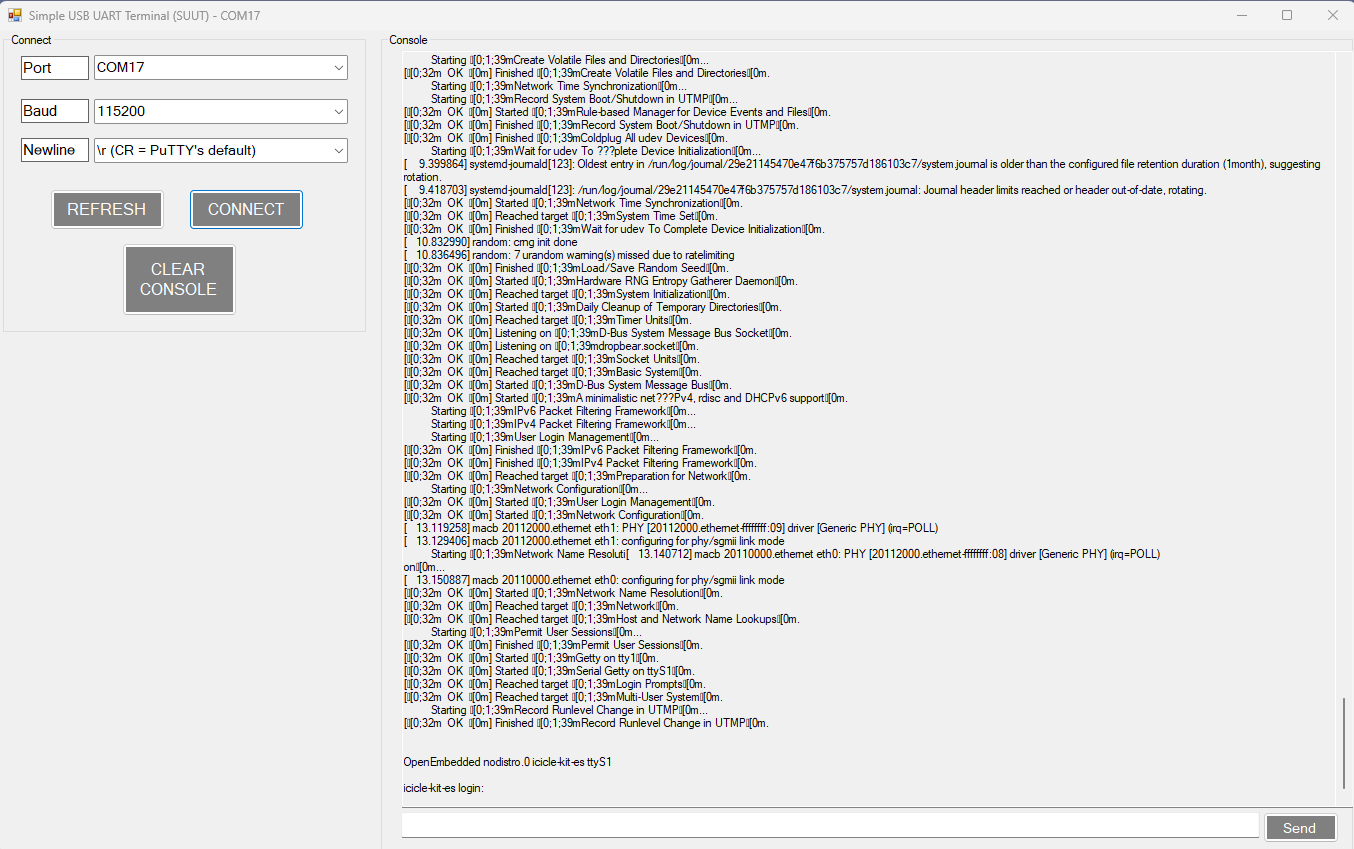
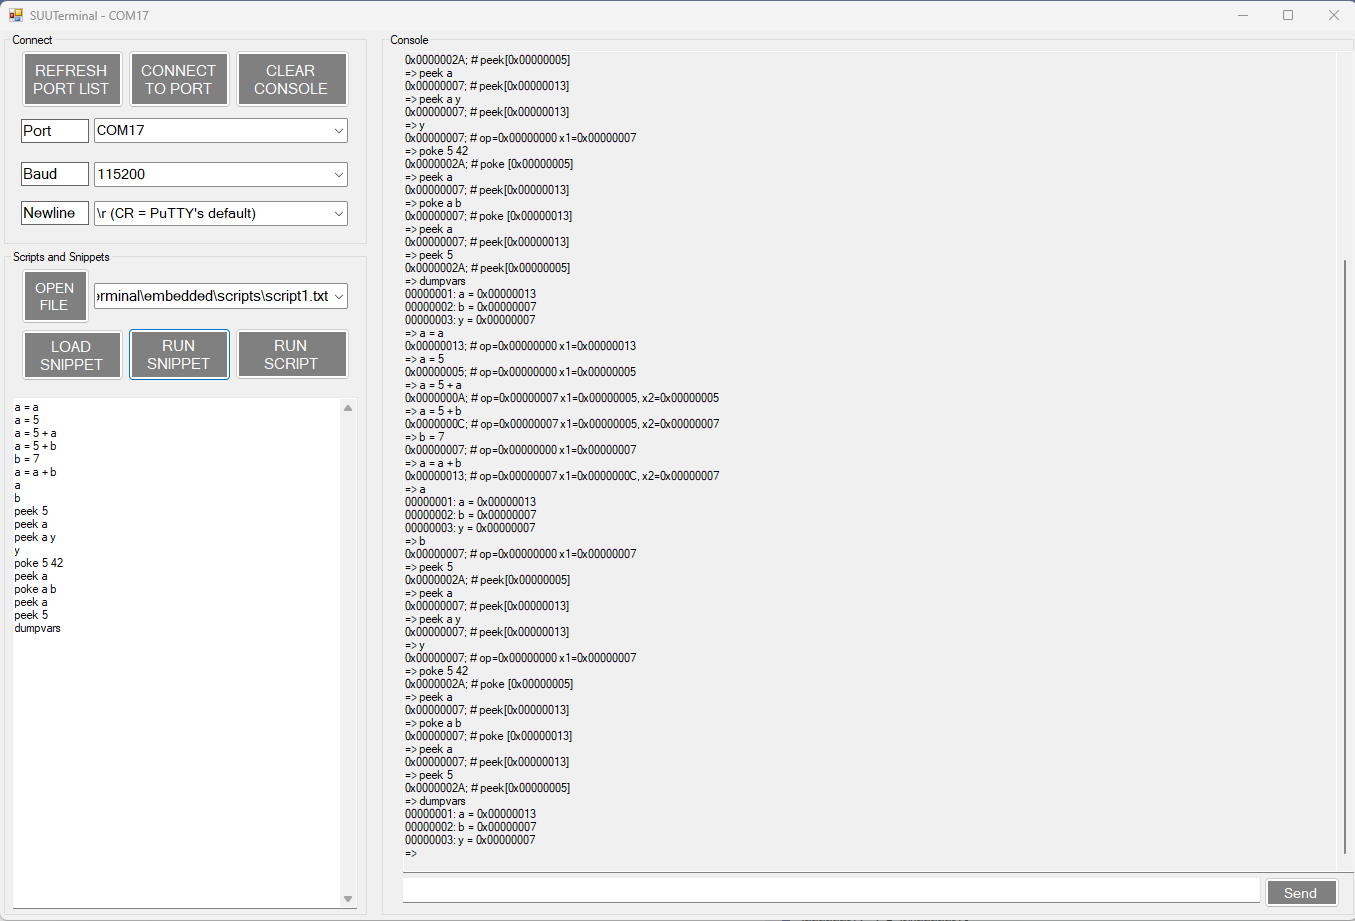
Cleanup

diff --git a/gui/suuterminal/Properties/AssemblyInfo.cs b/gui/suuterminal/Properties/AssemblyInfo.cs
@@ -5,11 +5,11 @@ using System.Runtime.InteropServices;
 // General Information about an assembly is controlled through the following
 // set of attributes. Change these attribute values to modify the information
 // associated with an assembly.
-[assembly: AssemblyTitle("suut")]
+[assembly: AssemblyTitle("suuterminal")]
 [assembly: AssemblyDescription("")]
 [assembly: AssemblyConfiguration("")]
 [assembly: AssemblyCompany("")]
-[assembly: AssemblyProduct("suut")]
+[assembly: AssemblyProduct("suuterminal")]
 [assembly: AssemblyCopyright("Copyright ©  2022")]
 [assembly: AssemblyTrademark("")]
 [assembly: AssemblyCulture("")]

diff --git a/gui/suuterminal/Form1.Designer.cs b/gui/suuterminal/Form1.Designer.cs
@@ -862,7 +862,7 @@
             this.Controls.Add(this.groupBoxConnect);
             this.Margin = new System.Windows.Forms.Padding(2);
             this.Name = "Form1";
-            this.Text = "SUUT";
+            this.Text = "SUUTerminal";
             this.Load += new System.EventHandler(this.Form1_Load);
             this.groupBoxConnect.ResumeLayout(false);
             this.groupBoxConnect.PerformLayout();

diff --git a/README.md b/README.md
@@ -1,48 +1,62 @@
-# suut
+# SUUTerminal
 
-SUITABLE USB UART TERMINAL GUI SOFTWARE
----------------------------------------
+Sufficient USB UART TERMINAL GUI SOFTWARE
+-----------------------------------------
 
-The terminal GUI is written in C# using WinForms. To run the GUI start Visual Studio 
-(It has been tested using Microsoft Visual Studio Community 2022 (64-bit)).
+SUUTerminal is written in C# using WinForms. It provides a USB UART serial
+port interface. PuTTY is one of the leading terminal emulators.  I like PuTTY
+and recommend it. But it doesn't support transmitting files, which is what
+I need to script and automate test plans and command sequences. So I wrote
+SUUTerminal, which is a pretty barebones terminal emulator that can send file
+contents to the remote device. It doesn't do much more than that, but it's 
+sufficient for my needs. Hence the name, Sufficient USB UART Terminal.
+
+You can run SUUTerminal from Visual Studio with the following instructions. I
+use Microsoft Visual Studio Community 2022 (64-bit), but I didn't do anything
+clever, so it should be portable to other versions. I would like to evenually 
+try it on Linux with Mono.
+
+To run the GUI start Visual Studio 
+(It has been tested using ).
 * Click "Open a project or solution"
-* open  suut.sln
+* open  suuterminal.sln
 * Click "Start". This will compile and run the GUI.
 * In the GUI's configuration pane, select the appropriate Port, Baud Rate and
   Newline sequence.
 * Enter lines to send to the remote device using the Send Dialog box, and
-  monitor the responses with the Console read-only box.
+  monitor the responses with the Console read-only box. Or try the file and
+  snippet scratchpad features.
 
-![suut screenshot](screenshot.png)
+![SUUTerminal screenshot](screenshot.png)
 
 Configuration
 -------------
-SUUT isn't too configurable with just a few settings.
+SUUTerminal isn't too configurable with just a few settings.
 
 * Port - The program scans for open ports and presents a drop-down selection
   menu. If there are multiple ports, a simple way to identify your port is to
   disconnect your device, hit refresh, re-plug in your device and hit refresh 
   again to see which port was added.
-* Baud Rate - SUUT allows you to select baud rates of 115200 and 9600. These 
+* Baud Rate - SUUTerminal allows you to select baud rates of 115200 and 9600. These 
   are the two most common rates. Typically USB devices can support 115200.
-* Newline Sequence - Your UART device may want a LF (\n), CR (\r) or CR+LF (\r\n)
-  at the end of each line. PuTTY defaults to CR (\r) and other terminals default
-  to LF (\n). C# (.NET) defaults to CR+LF (\r\n) on Windows and LF (\n) on Linux.
+* Newline Sequence - Your UART device may want a `LF` (\n), `CR` (\r) or `CR+LF (\r\n)`
+  at the end of each line. PuTTY defaults to `CR` (\r) and other terminals default
+  to `LF` (\n). C# (.NET) defaults to `CR+LF` (\r\n) on Windows and `LF` (\n) on Linux.
 
 End of Line Characters
 ----------------------
-When receiving data, SUUT converts several variations, including LF, CR and
-CR+LF to Environment.NewLine, which is CR+LF (\r\n) on Windows and LF (\n) on
+When receiving data, SUUTerminal converts several end-of-line/new-line variations,
+including `LF`, `CR` and `CR+LF` to `Environment.NewLine`, which is CR+LF (\r\n) on Windows and LF (\n) on
 Linux.
 
 Hacking
 -------
 
-* **Add a default port** - Open 'Form1.cs [Design]', right-click on the port
-  selection textbox and pick properties. Change the 'Text' property.
+* **Add a default port** - Open `Form1.cs [Design]`, right-click on the port
+  selection textbox and pick properties. Change the `Text` property.
   
-* **Add another Baud Rate** - Edit 'Form1.Designer.cs', search for 9600 and add
-  the new baud rates.
+* **Add another Baud Rate** - Edit `Form1.Designer.cs`, search for 9600 and add
+  the new baud rates to the `Items` list.
   
 ```cpp
     this.comboBoxBaudRate.Font = new System.Drawing.Font("Microsoft Sans Serif", 10.2F, System.Drawing.FontStyle.Regular, System.Drawing.GraphicsUnit.Point, ((byte)(0)));
@@ -56,5 +70,6 @@ Hacking
     this.comboBoxBaudRate.Size = new System.Drawing.Size(254, 25);
 ```
 
-* **Change default Newline** - Open 'Form1.cs [Design]', right-click on the
-  Newline textbox and pick properties. Change the 'Text' property.
+* **Change default Newline** - Open `Form1.cs [Design]`, right-click on the
+  Newline textbox and pick `properties` and change the `text` property to your
+  prefered newline character(s).
